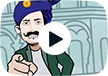
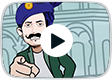
thumnail images changes - 31-07-2015

diff --git a/js/dubfest.js b/js/dubfest.js
@@ -34,16 +34,16 @@ $('#sangramSingtvcVideo').click(function(){
 	});
 	
 	$('#sangramSingVideo').click(function(){
-    $('#sangramSingVideo').attr('src', host + '/images/masterRadhe.png');
-	$("#YourIFrameID_1").attr('src', 'https://www.youtube.com/embed/oXCr1VLZgAI');
-	$(".UnivrslPoupup").find('.VideoTitle_1').html("Title Text1");
+    $('#sangramSingVideo').attr('src', host + '/images/masterShehnsah.png');
+	$("#YourIFrameID_1").attr('src', 'https://www.youtube.com/embed/-tjezAmL31A?rel=0&amp;showinfo=0');
+	$(".UnivrslPoupup").find('.VideoTitle_1').html("Sangram Singh- Shahenshah Dubsmash");
 	});
 	
 	$('#sangramSingVideo1').click(function(){
 		
-    $('#sangramSingVideo').attr('src', host + '/images/masterRadhe.png');
-	$("#YourIFrameID_1").attr('src', 'https://www.youtube.com/embed/oXCr1VLZgAI');
-	$(".UnivrslPoupup").find('.VideoTitle_1').html("Title Text2");
+    $('#sangramSingVideo').attr('src', host + '/images/masterShehnsah.png');
+	$("#YourIFrameID_1").attr('src', 'https://www.youtube.com/embed/-tjezAmL31A?rel=0&amp;showinfo=0');
+	$(".UnivrslPoupup").find('.VideoTitle_1').html("Sangram Singh- Shahenshah Dubsmash");
 	
 	$(".mainVideo").removeClass("hide");
 	$(".subVideo").addClass("hide");
@@ -51,24 +51,24 @@ $('#sangramSingtvcVideo').click(function(){
 	
 	$('#sangramSingVideo2').click(function(){
     $('#sangramSingVideo').attr('src', host + '/images/masterRajni.png');
-	$("#YourIFrameID_1").attr('src', 'https://www.youtube.com/embed/oXCr1VLZgAI');
-	$(".UnivrslPoupup").find('.VideoTitle_1').html("Title Text3");
+	$("#YourIFrameID_1").attr('src', 'https://www.youtube.com/embed/BLkwr8Akj6I?rel=0&amp;showinfo=0');
+	$(".UnivrslPoupup").find('.VideoTitle_1').html("Sangram Singh- Rajinikanth Dubsmash");
 	$(".mainVideo").removeClass("hide");
 	$(".subVideo").addClass("hide");
     });
 	
 	$('#sangramSingVideo3').click(function(){
-    $('#sangramSingVideo').attr('src', host + '/images/masterShehnsah.png');
-	$("#YourIFrameID_1").attr('src', 'https://www.youtube.com/embed/oXCr1VLZgAI');
-	$(".UnivrslPoupup").find('.VideoTitle_1').html("Title Text4");
+    $('#sangramSingVideo').attr('src', host + '/images/masterRadhe.png');
+	$("#YourIFrameID_1").attr('src', 'https://www.youtube.com/embed/Xedg93txyKo?rel=0&amp;showinfo=0');
+	$(".UnivrslPoupup").find('.VideoTitle_1').html("Sangram Singh- Wanted Dubsmash");
 	$(".mainVideo").removeClass("hide");
 	$(".subVideo").addClass("hide");
     });
 	
 	$('#sangramSingVideo4').click(function(){
-    $('#sangramSingVideo').attr('src', host + '/images/masterRadhe.png');
-	$("#YourIFrameID_1").attr('src', 'https://www.youtube.com/embed/oXCr1VLZgAI');
-	$(".UnivrslPoupup").find('.VideoTitle_1').html("Title Text5");
+    $('#sangramSingVideo').attr('src', host + '/images/masterShehnsah.png');
+	$("#YourIFrameID_1").attr('src', 'https://www.youtube.com/embed/-tjezAmL31A?rel=0&amp;showinfo=0');
+	$(".UnivrslPoupup").find('.VideoTitle_1').html("Sangram Singh- Shahenshah Dubsmash");
 	$(".mainVideo").removeClass("hide");
 	$(".subVideo").addClass("hide");
     });

diff --git a/css/style.css b/css/style.css
@@ -517,7 +517,7 @@ header {
     margin: 0 7px;
     overflow: hidden;
     padding: 0px !important;
-    width: 22% !important;
+    /* width: 22% !important; */
 }
 
 .fntsz25 {
@@ -631,7 +631,7 @@ header {
     background: #0093be;
     padding: 11px;
     width:100%;
-    height:235px
+    height:235px;
 }
 
 .votNowFrm label {
@@ -1737,6 +1737,12 @@ and (min-width : 1824px) {
     margin: 4% auto 0px;
     border-radius: 0px;
 }
+
+/* css for scroll_down_to_vote */
+#scroll_me_bro
+{
+	display:block !important;
+}
 	
 } 
 
@@ -1771,4 +1777,65 @@ and (min-width : 1824px) {
 }
 
 
+/* css for scroll_down_to_vote */
 
+#scroll_me_bro
+{
+	display:none;
+}
+
+@-webkit-keyframes circleBounce {
+  0% {-webkit-transform: scale(0.9); opacity: 0;}
+  20% {opacity: 0.5;}
+  50% {opacity: 1;}
+  80% {opacity: 0.5;}
+  100% {-webkit-transform: scale(1.1); opacity:0;}
+}
+
+#scroll_me_bro {
+  position: relative;
+    top: 7px;
+    left: calc(50% - 3px);
+    width: 15px;
+    height: 15px;
+    border: 3px solid #0090BC;
+    border-top: none;
+    border-left: none;
+    cursor: pointer;
+    -webkit-transform: rotate(45deg);
+    -webkit-transform-origin: 50% 50%;
+}
+
+#scroll_me_bro:after {
+  content: "";
+    display: block;
+    position: absolute;
+    top: calc(50% - 17px);
+    left: calc(50% - 17px);
+    width: 40px;
+    height: 40px;
+    border: 1px solid rgba(255,255,255,.8);
+    border: 1px solid #0090BC;
+    border-radius: 50%;
+    -webkit-animation: circleBounce 1.2s linear infinite; 
+}
+
+div:hover:after {
+  background-color: rgba(255,0,0,.15);
+}
+
+.frame {
+    height: 35px;      /* equals max image height */
+    width: 160px;
+    border: 0px solid red;
+    text-align: center; 
+    margin: 1em 0;
+    display: table-cell;
+    vertical-align: middle;
+}
+
+.thumbnail_img {
+    display: block;
+    max-height: 205px;
+    max-width: 160px;
+}

diff --git a/css/bootstrap.css b/css/bootstrap.css
@@ -6804,7 +6804,7 @@ button.close {
 .fntSctn1 { color:#fff;  font-size: 210%;}
 .prcptBtn { width:57%;}
 .videoTh { display:none;}
-.VdoeThumSngram { display:none;}
+/* .VdoeThumSngram { display:none;} */
 .iPhnImage { float:Left;}
 
 .frmistrctnBg { 

diff --git a/protected/views/site/pages/rules.php b/protected/views/site/pages/rules.php
@@ -8,20 +8,20 @@
             <div class="temsDsgnBg">
                 <ul>
                     <li>B Natural - Dubfest contest is organized by ITC Limited purely for promotional purposes and participation is purely voluntary in this limited edition contest.</li>
-                    <li>Contest is open from July 2015 to August 2015.</li>
+                    <li>Contest is open from 1st to 15th August 2015.</li>
                     <li>Contest is open only to Indian citizens residing in India.</li>
-                    <li>The participant should be at least 18 years old before 1 January 2015 to be eligible for entry in the contest. </li>
+                    <li>The participant should be at least 18 years old on or before 1 January 2015 to be eligible for entry in the contest. </li>
                     <li>Employees of ITC Limited, Position2 Marketing PVT LTD and other involved agencies and their immediate family members are not eligible to participate in this contest. </li>
-                    <li>Steps to Participate in the Contest:
+                    <li>Steps to Participate in the BNatural Dubfest:
                         <ul>
-                            <li>Stage 1 - Use the Dubsmash app to create a Dubsmash video under any of the following three categories Comedy, Action & Drama.</li>
-                            <li>Stage 2 - Upload your Dubsmash video entry through the site sangramsingh.BNatural.in along with your details.</li>
-                            <li>Stage 3 - Once approved share your entry with your friends and spread the word to receive maximum number of Re-tweets, favorites, votes, likes, comments or shares. Use the hashtags #BNatural and #Dubfest in all your communication.</li>
+                            <li>Stage 1 - Use the official Dubsmash app to create a Dubsmash video under any of the following categories Humor, Action, Songs, Drama and Just Like That.</li>
+                            <li>Stage 2 - Upload your Dubsmash video entry through the site dubfest.bnatural.in along with your details.</li>
+                            <li>Stage 3 - Once approved, share your entry with your friends and spread the word to receive maximum number of retweets, favorites, votes, likes, comments and shares. Use the hashtags #BNatural and #Dubfest in all communication.</li>
                         </ul>
                     </li>
-                    <li>The winner will win an iPhone6.
-                    <li>10 participants will win gift hampers from B Natural as consolation prizes.</li>
-                    <li>Winners will be selected based on number of votes received and number of Re-tweets, favorites, likes, comments or shares. </li>
+                    <li>One winner will win an iPhone6.
+                    <li>100 participants will win gift hampers from B Natural as consolation prizes.</li>
+                    <li>Winners will be selected based on number of votes received and number of retweets, favorites, likes, comments and shares. </li>
                     <li>An entry video MUST NOT contain, as determined by the Promoters in its sole discretion, any content that:
                         <ul>
                             <li>Is sexually explicit or suggestive, unnecessarily violent or derogatory of any ethnic, racial, gender, religious, professional or age group, is profane or pornographic, or contains nudity, profanity or obscenity;</li>
@@ -38,7 +38,6 @@
                     <li>Participants/winners agree to document their photographs, videos and write ups and share the same with ITC Limited for promotional purposes. ITC Limited reserves the right to document the journey of the participants and broadcast it on any media platform at its sole discretion. </li>
                     <li>By taking part in the B Natural Dubfest, all participants agree that their name and/or photo and/or video may appear in any advertisements / promotions of ITC Limited. No fees or other sums will be paid to the participants on account of any of the promotional activities undertaken by ITC Limited.</li>
                     <li>ITC Limited reserves the right to disqualify an entry in the event of submission of false, incorrect, misleading or fraudulent information and/or in the event of fraud practices like website or mobile system hacking, etc.</li>
-                    <li>The chance to go on a road trip will be given to the winner(s) post completion of such audit and verification process as deemed fit by ITC Limited. </li>
                     <li>ITC Limited is not responsible for any charges/levies paid by the winners or for the costs incurred for participation in this contest including sending SMS, internet data usage, mailing documents etc. </li>
                     <li>The contest is non-transferable and cannot be exchanged for cash.</li>
                     <li>ITC Limited shall not be responsible for the non-functioning of the contest website or telephone

diff --git a/protected/views/pages/index.php b/protected/views/pages/index.php
@@ -1,7 +1,7 @@
 <div class="container header-body">
     <header>
         <div class="row lilita tagLn">
-            <div class="col-md-12 text-center">Be funny, Be mad, Be cool.</br>Show your many sides,<img src="<?php echo Yii::app()->request->baseUrl; ?>/images/gif.gif" />
+            <div class="col-md-12 text-center">Be funny. Be mad. Be cool.</br>Show us your many sides,<img src="<?php echo Yii::app()->request->baseUrl; ?>/images/gif.gif" />
             </div>
         </div>
         <div class="row PrtcptNwMoble text-center lilita">
@@ -14,9 +14,9 @@
 
                     <div class="participateprceCntr">
                         <div class="prtcptSctnCont">
-                           <span class="fntSctn1"><img class="iPhnImage" src="<?php echo Yii::app()->request->baseUrl; ?>/images/prtcptMbl.png" />Be a part of the country's whackiest Dubsmash contest & <span class="fntSctn2">win an iPhone 6!</span><p style="font-size: 14px;
-    font-weight: 400 !important;
-    color: rgb(78, 56, 98);">100 consolation prizes to be won!</p></span>
+                           <span class="fntSctn1"><img class="iPhnImage" src="<?php echo Yii::app()->request->baseUrl; ?>/images/prtcptMbl.png" />Be a part of the #BNatural Dubfest and <span class="fntSctn2">win an iPhone 6!</span><br></br><p style="font-size: 15px;
+    font-weight: 400 !important; margin-top:15px; 
+    color: rgb(78, 56, 98);">100 BNatural Gift Hampers to be won too!</p></span>
                         </div>
                         <div class="hmprcptBtn prcptBtn">Participate Now</div>
                     </div>
@@ -41,15 +41,35 @@
                 <div class="text-center clr1 bntrl">#BNatural #Dubfest</div>
             </div>
 			<div class="col-xs-5 videoThb">
-			<div class="sangramSingVideo"><img class="img-responsive" id="sangramSingVideo" src="<?php echo Yii::app()->request->baseUrl; ?>/images/masterRadhe.png"/></div>
+			<div class="sangramSingVideo"><img class="img-responsive" id="sangramSingVideo" src="<?php echo Yii::app()->request->baseUrl; ?>/images/masterShehnsah.png"/></div>
+			<!--<div class="row VdoeThumSngram">
+			<div class="col-sm-3  MinvdoThmb sangramSingVideo" id="sangramSingVideo1"><img src="<?php echo Yii::app()->request->baseUrl; ?>/images/smallRadhe.png" class="img-responsive" /></div>
+			<div class="col-sm-3 MinvdoThmb sangramSingVideo" id="sangramSingVideo2"><img src="<?php echo Yii::app()->request->baseUrl; ?>/images/smallRajni.png" class="img-responsive" /></div>
+			<div class="col-sm-3 MinvdoThmb sangramSingVideo" id="sangramSingVideo3"><img src="<?php echo Yii::app()->request->baseUrl; ?>/images/smallShehnsah.png" class="img-responsive" /></div>
+			<div class="col-sm-3 MinvdoThmb sangramSingVideo" id="sangramSingVideo4"><img src="<?php echo Yii::app()->request->baseUrl; ?>/images/smallRadhe.png" class="img-responsive" /></div>
+	
+			</div>-->
+			
 			<div class="row VdoeThumSngram">
-			<div class="col-sm-3  MinvdoThmb sangramSingVideo" id="sangramSingVideo1"><div class="PlayIcn3"></div><img src="<?php echo Yii::app()->request->baseUrl; ?>/images/smallRadhe.png"  /></div>
-			<div class="col-sm-3 MinvdoThmb sangramSingVideo" id="sangramSingVideo2"><div class="PlayIcn3"></div><img src="<?php echo Yii::app()->request->baseUrl; ?>/images/smallRajni.png" /></div>
-			<div class="col-sm-3 MinvdoThmb sangramSingVideo" id="sangramSingVideo3"><div class="PlayIcn3"></div><img src="<?php echo Yii::app()->request->baseUrl; ?>/images/smallShehnsah.png"/></div>
-			<div class="col-sm-3 MinvdoThmb sangramSingVideo" id="sangramSingVideo4"><div class="PlayIcn3"></div><img src="<?php echo Yii::app()->request->baseUrl; ?>/images/smallRadhe.png"/></div>
-
+					<div class="frame">
+					  <div class="MinvdoThmb sangramSingVideo" id="sangramSingVideo1"><img src="<?php echo Yii::app()->request->baseUrl; ?>/images/smallShehnsah.png" class="img-responsive thumbnail_img " /></div>
+					</div>
+					<div class="frame">
+					 <div class="MinvdoThmb sangramSingVideo" id="sangramSingVideo2"><img src="<?php echo Yii::app()->request->baseUrl; ?>/images/smallRajni.png" class="img-responsive thumbnail_img " /></div>
+					</div>
+					<div class="frame">
+					<div class="MinvdoThmb sangramSingVideo" id="sangramSingVideo3"><img src="<?php echo Yii::app()->request->baseUrl; ?>/images/smallRadhe.png" class="img-responsive thumbnail_img " /></div>
+					</div>
+					<div class="frame">
+					<div class="MinvdoThmb sangramSingVideo" id="sangramSingVideo4"><img src="<?php echo Yii::app()->request->baseUrl; ?>/images/smallShehnsah.png" class="img-responsive thumbnail_img " /></div>
+					</div>
+					
 			</div>
+			
+			
+			
 			</div>
+			
 			
             <div class="col-xs-4 Mndit">
                 <!--<img src="<?php echo Yii::app()->request->baseUrl; ?>/images/mnditImg.png" />-->

diff --git a/protected/views/layouts/main.php b/protected/views/layouts/main.php
@@ -45,13 +45,16 @@
                             <div class="col-md-12 noPaddng VideoMessage hidden-xs">
                                 <p class="videoTag">Morbi viverra mattis leo vitae faucibus. Sed vel quam pellentesque felis hendrerit mollis. Fusce elementum laoreet efficitur. Pellentesque habitant morbi tristique senectus et netus et malesuada fames #BNatural #Dubfest.</p>
                             </div>
+							
+							
                         </div>
                         <div  style="overflow-x:hidden; overflow-y:auto; height:350px">
                             <div class="row">
                                 <div class="col-md-8 noPaddng">
                                     <iframe id="YourIFrameID" width="100%" height="350" src="" frameborder="0" allowfullscreen></iframe>
                                 </div>
-                                <div class="col-md-4 clr1 noPaddng" id>
+								
+                                <div class="col-md-4 clr1 noPaddng">
                                     <div class="votNowFrm pull-left">
                                         <div class="col-xs-12 form-group userInfo">
                                             <label>Your Name*</label>
@@ -72,8 +75,12 @@
                                     </div>
                                     <div class="ShareSctn pull-left lilita shareBtn" style="font-size:21px;" data-content_id="0"  data-content_type="gallery">Share it On<img src="<?php echo Yii::app()->request->baseUrl; ?>/images/fbicn.png" /></div>
                                 </div>
+								
                             </div>
                         </div>
+							<div class="modal-footer">
+								<div id="scroll_me_bro"></div>
+						    </div>
 						
                     </div>
 					
@@ -83,7 +90,7 @@
                         <div class="row">
                            <div class="modal-header">
 									 <button type="button" class="close univrslPoupClose" data-dismiss="modal" aria-hidden="true">×</button>
-									 <p class="lilita clr2 VideoTitle_1">Title</p>
+									 <p class="lilita clr2 VideoTitle_1" style="margin-left: 10px;">Title</p>
 							  </div>
 							
                             <!-- 	<div class="col-md-12 noPaddng">
@@ -218,6 +225,7 @@
                             <div class="ShareSctn pull-left lilita" style="font-size:21px;">Share it On<img src="images/fbicn.png" /></div>
                         </div>
                     </div>
+					
                 </div>
                 <!--VideoPoupupContentEnd--->
 

diff --git a/protected/views/pages/tvc.php b/protected/views/pages/tvc.php
@@ -1,8 +1,8 @@
 <div class="container header-body">
     <header>
         <div class="row lilita tagLn">
-            <div class="col-md-12 text-center">Be funny, Be mad, Be cool.</br>
-                Show your many sides,<img src="<?php echo Yii::app()->request->baseUrl; ?>/images/gif.gif" />
+            <div class="col-md-12 text-center">Be funny. Be mad. Be cool.</br>
+                Show us your many sides,<img src="<?php echo Yii::app()->request->baseUrl; ?>/images/gif.gif" />
             </div>
         </div>
         <div class="row PrtcptNwMoble text-center lilita">
@@ -16,9 +16,9 @@
 
 <div class="participateprceCntr">
 <div class="prtcptSctnCont">
-<span class="fntSctn1"><img class="iPhnImage" src="<?php echo Yii::app()->request->baseUrl; ?>/images/prtcptMbl.png" />Be a part of the country's whackiest Dubsmash contest & <span class="fntSctn2">win an iPhone 6!</span><p style="font-size: 14px;
-    font-weight: 400 !important;
-    color: rgb(78, 56, 98);">100 consolation prizes to be won!</p></span>
+<span class="fntSctn1"><img class="iPhnImage" src="<?php echo Yii::app()->request->baseUrl; ?>/images/prtcptMbl.png" />Be a part of the #BNatural Dubfest and <span class="fntSctn2">win an iPhone 6!</span><br></br><p style="font-size: 15px;
+    font-weight: 400 !important; margin-top:15px; 
+    color: rgb(78, 56, 98);">100 BNatural Gift Hampers to be won too!</p></span>
 </div>
 <div class="hmprcptBtn prcptBtn">Participate Now</div>
 
@@ -47,6 +47,6 @@
 </div>
 </header>
 </div>
-<div class="row wtchTVCMobile">
+<!--<div class="row wtchTVCMobile">
     <div class="topVdesHdr clr1 lilita"><img class="iPhnImage" src="<?php echo Yii::app()->request->baseUrl; ?>/images/wtchTvcIcn.png" />Watch Now </div>
-</div>
+</div>-->
